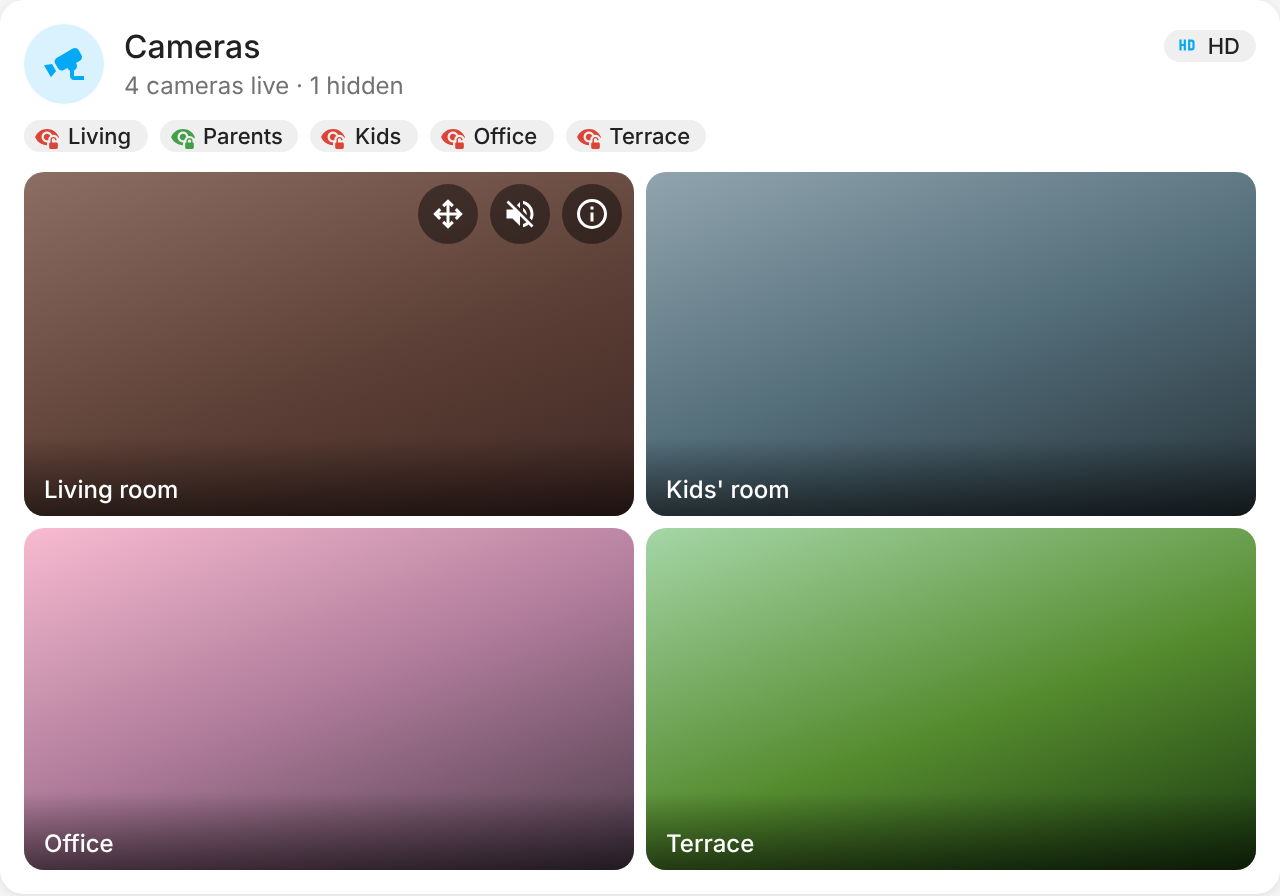
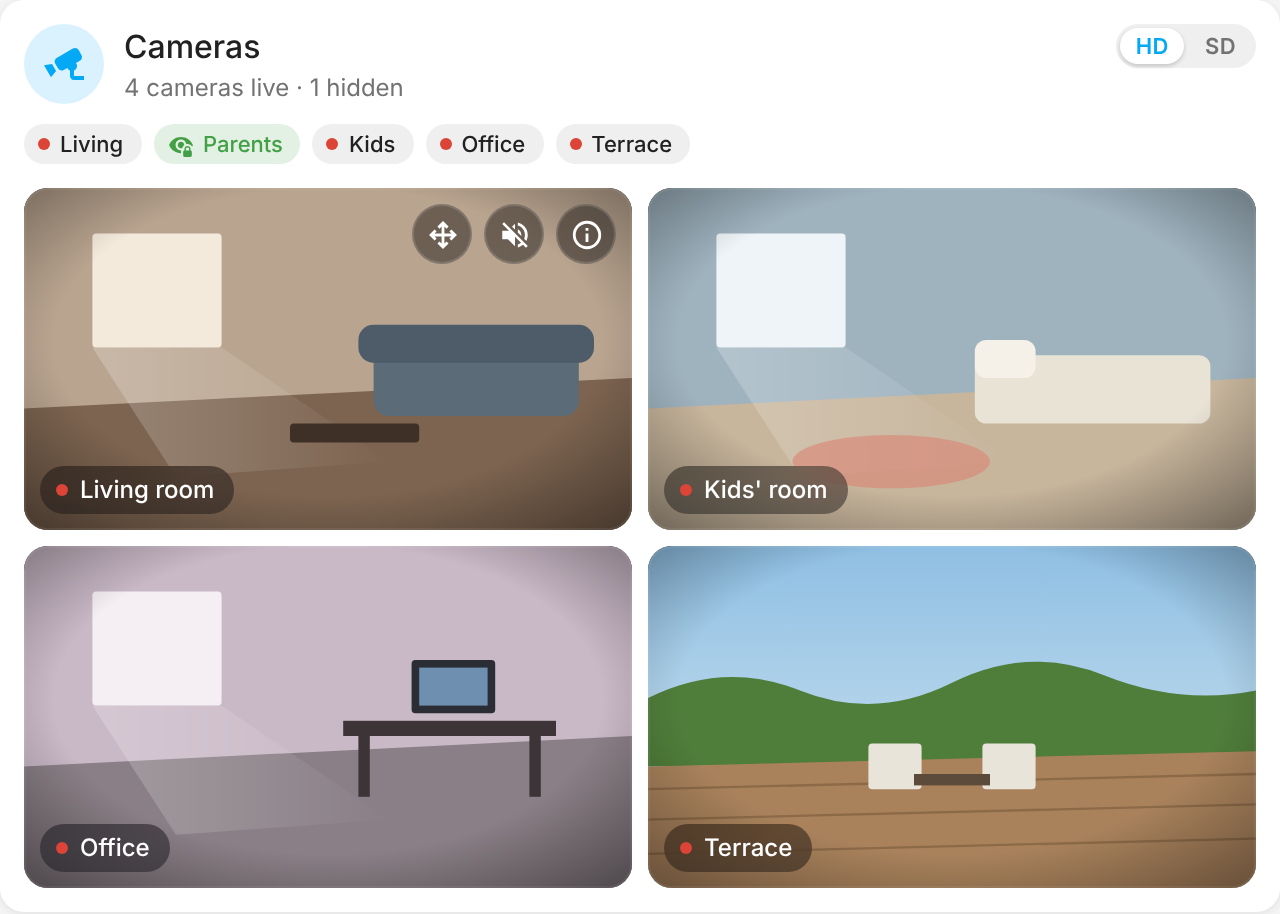
Visual pass (3.2.0)
- HD / SD as a two-way switch in the header
- Badges: red live dot while filming, green lock while hidden
- Names on the images in a glass pill with a blinking live dot; a single
  camera's pill says Live
- Glass buttons and arrows, rounder tiles with a hairline edge, softer
  unavailable placeholder, finer spinner
- Panel saying how to bring a camera back when every camera is hidden
- Reduced motion respected
- Mock rooms in the screenshots, plus single-camera and all-hidden views

Claude-Session: https://claude.ai/code/session_01BJht1x7VNww4d7EZ9aGf12

diff --git a/src/home-camera-card.js b/src/home-camera-card.js
@@ -11,6 +11,9 @@ const HcI18n = {
     all_hidden: 'Toutes les caméras sont masquées',
     one_hidden: 'Caméra désactivée',
     no_cameras: 'Aucune caméra configurée',
+    hint_all: 'Touchez une pastille pour afficher une caméra',
+    live: 'En direct',
+    hint_one: 'Activez la caméra pour la voir ici',
     hd: 'HD',
     sd: 'SD',
     quality_hint: 'Basculer entre HD et SD',
@@ -62,6 +65,9 @@ const HcI18n = {
     all_hidden: 'All cameras are hidden',
     one_hidden: 'Camera disabled',
     no_cameras: 'No camera configured',
+    hint_all: 'Tap a badge to show a camera',
+    live: 'Live',
+    hint_one: 'Enable the camera to see it here',
     hd: 'HD',
     sd: 'SD',
     quality_hint: 'Switch between HD and SD',
@@ -411,10 +417,12 @@ class HomeCameraCard extends HTMLElement {
     }
   }
 
+  // A badge: an icon, or the red live dot when icon is null.
   _chip(cls, attrs, icon, label, title) {
+    const mark = icon ? `<ha-icon icon="${icon}"></ha-icon>` : '<span class="dot"></span>';
     return (
       `<span class="chip ${cls}" ${attrs} role="button" tabindex="0" title="${hcEsc(title)}">` +
-      `<ha-icon icon="${icon}"></ha-icon><span>${hcEsc(label)}</span></span>`
+      `${mark}<span>${hcEsc(label)}</span></span>`
     );
   }
 
@@ -435,13 +443,10 @@ class HomeCameraCard extends HTMLElement {
       }
     }
 
-    const quality = this._chip(
-      hd ? 'hd' : 'sd',
-      'data-quality="1"',
-      hd ? 'mdi:high-definition' : 'mdi:standard-definition',
-      this._t(hd ? 'hd' : 'sd'),
-      this._t('quality_hint'),
-    );
+    // HD / SD as a two-way switch: both options shown, the current one raised.
+    const opt = (q, on) =>
+      `<span class="opt${on ? ' on' : ''}" data-quality="${q}" role="radio" aria-checked="${on}" tabindex="0">${this._t(q)}</span>`;
+    const quality = `<span class="seg" role="radiogroup" title="${hcEsc(this._t('quality_hint'))}">${opt('hd', hd)}${opt('sd', !hd)}</span>`;
 
     // Lock icon by state; a spinning icon while the switch toggled from the card has not answered yet.
     const lock = (cam) => {
@@ -454,6 +459,8 @@ class HomeCameraCard extends HTMLElement {
         title: this._t(off ? 'privacy_on' : 'privacy_off', { c: cam.name }),
       };
     };
+    // Badges: a live camera shows the red dot, a hidden one its lock.
+    const badgeIcon = (l) => (l.cls === 'exposed' ? null : l.icon);
 
     let badges = '';
     if (c.show_badges) {
@@ -463,14 +470,15 @@ class HomeCameraCard extends HTMLElement {
           const l = lock(cam);
           const target = cam.privacy || cam.power;
           const label = single ? this._t(this._hidden(cam) ? 'enable' : 'disable') : cam.short;
-          return this._chip(l.cls, `data-toggle="${hcEsc(target)}"`, l.icon, label, l.title);
+          return this._chip(l.cls, `data-toggle="${hcEsc(target)}"`, badgeIcon(l), label, l.title);
         })
         .join('');
     }
 
     // A single camera with a toggle: the toggle sits on the right of the title, the quality under it
     // (only while the camera films: once it is hidden, the line says so instead).
-    let right = quality;
+    // No camera on screen: nothing to choose a quality for.
+    let right = visible.length ? quality : '';
     let side = '';
     let sub = summary ? `<div class="summary">${hcEsc(summary)}</div>` : '';
     if (single && badges) {
@@ -502,9 +510,17 @@ class HomeCameraCard extends HTMLElement {
     if (!this._tiles) this._tiles = new Map();
     if (!visible.length) {
       this._tiles.clear();
-      view.innerHTML = this._config.cameras?.length
-        ? ''
-        : `<div class="empty"><ha-icon icon="mdi:cctv-off"></ha-icon>${hcEsc(this._t('no_cameras'))}</div>`;
+      const n = this._config.cameras?.length || 0;
+      // Every camera hidden: what brings one back, where the grid would be.
+      if (n && this._config.show_badges) {
+        view.innerHTML =
+          `<div class="asleep"><ha-icon icon="mdi:eye-lock"></ha-icon>` +
+          `<span>${hcEsc(this._t(n === 1 ? 'hint_one' : 'hint_all'))}</span></div>`;
+      } else {
+        view.innerHTML = n
+          ? ''
+          : `<div class="empty"><ha-icon icon="mdi:cctv-off"></ha-icon>${hcEsc(this._t('no_cameras'))}</div>`;
+      }
       return;
     }
     hcLoadStream(visible[0].camera).catch(() => {});
@@ -542,7 +558,8 @@ class HomeCameraCard extends HTMLElement {
     tile.setAttribute('role', 'group');
     tile.innerHTML =
       '<div class="na"><ha-icon icon="mdi:cctv-off"></ha-icon><span></span></div><div class="spin"></div>' +
-      '<div class="label"></div><span class="open" data-action="open" role="button" tabindex="0"></span>' +
+      '<div class="label"><span class="dot"></span><span class="text"></span></div>' +
+      '<span class="open" data-action="open" role="button" tabindex="0"></span>' +
       '<div class="tools"></div><div class="pad"></div>';
     const stream = document.createElement('ha-camera-stream');
     stream.muted = true;
@@ -569,7 +586,9 @@ class HomeCameraCard extends HTMLElement {
     tile.dataset.cam = cam.key;
     tile.setAttribute('aria-label', cam.name);
     tile.querySelector('.open').title = cam.name;
-    tile.querySelector('.label').textContent = cam.name;
+    // A single camera already has its name as the card title: its image just says it is live.
+    const single = (this._config.cameras?.length || 0) === 1;
+    tile.querySelector('.label .text').textContent = single ? this._t('live') : cam.name;
     tile.querySelector('.na span').textContent = this._t('unavailable');
     if (!this._fullscreen(tile)) tile._stream.aspectRatio = hcRatio(this._config.aspect_ratio);
     this._renderTools(tile);
@@ -763,8 +782,10 @@ class HomeCameraCard extends HTMLElement {
   _styles() {
     return (
       '<style>' +
-      ':host { display: block; --hc-on: var(--success-color, #43a047); --hc-off: var(--error-color, #db4437); }' +
-      'ha-card { box-sizing: border-box; padding: 12px; display: flex; flex-direction: column; gap: 10px; overflow: hidden; }' +
+      // --hc-glass: the smoked glass of everything laid over the images (labels, buttons, arrows).
+      ':host { display: block; --hc-on: var(--success-color, #43a047); --hc-off: var(--error-color, #db4437);' +
+      ' --hc-live: var(--error-color, #db4437); --hc-glass: rgba(14, 16, 20, 0.46); --hc-glass-line: rgba(255, 255, 255, 0.14); }' +
+      'ha-card { box-sizing: border-box; padding: 12px; display: flex; flex-direction: column; gap: 12px; overflow: hidden; }' +
       '.header { display: flex; align-items: center; gap: 10px; }' +
       '.hicon { width: 40px; height: 40px; border-radius: 50%; flex-shrink: 0; display: flex; align-items: center; justify-content: center;' +
       ' --hc-c: var(--primary-color, #03a9f4); background: color-mix(in srgb, var(--hc-c) 15%, transparent); color: var(--hc-c); }' +
@@ -776,52 +797,74 @@ class HomeCameraCard extends HTMLElement {
       '.summary { font-size: 12px; line-height: 1.35; margin-top: 2px; color: var(--secondary-text-color); }' +
       '.chips { display: flex; flex-wrap: wrap; justify-content: flex-end; gap: 6px; }' +
       '.chips.badges, .chips.sub { justify-content: flex-start; }' +
-      '.chips.badges { margin-top: 8px; }' +
-      '.chips.sub { margin-top: 3px; }' +
+      '.chips.badges { margin-top: 10px; }' +
+      '.chips.sub { margin-top: 4px; }' +
+      // HD / SD switch: a track with the current option raised on it.
+      '.seg { display: inline-flex; padding: 2px; gap: 2px; border-radius: 12px; background: var(--secondary-background-color, rgba(128,128,128,0.12)); }' +
+      '.opt { font-size: 11px; font-weight: 600; letter-spacing: 0.02em; line-height: 18px; padding: 0 8px; border-radius: 10px; cursor: pointer;' +
+      ' color: var(--secondary-text-color); user-select: none; transition: background 0.15s, color 0.15s; }' +
+      '.opt.on { background: var(--card-background-color, #fff); color: var(--primary-color, #03a9f4); box-shadow: 0 1px 2px rgba(0,0,0,0.18); cursor: default; }' +
+      '.opt:focus-visible { outline: 2px solid var(--primary-color, #03a9f4); outline-offset: 1px; }' +
       '.toggle { width: 40px; height: 40px; border-radius: 50%; flex-shrink: 0; display: flex; align-items: center; justify-content: center; cursor: pointer;' +
       ' --hc-c: var(--hc-off); background: color-mix(in srgb, var(--hc-c) 15%, transparent); color: var(--hc-c); }' +
       '.toggle.private { --hc-c: var(--hc-on); }' +
       '.toggle.pending { --hc-c: var(--secondary-text-color); cursor: progress; }' +
       '.toggle ha-icon { --mdc-icon-size: 22px; }' +
-      '.chip { display: inline-flex; align-items: center; gap: 4px; font-size: 11px; font-weight: 500; padding: 1px 8px 1px 5px; border-radius: 12px; cursor: pointer;' +
-      ' background: var(--secondary-background-color, rgba(128,128,128,0.12)); color: var(--primary-text-color); white-space: nowrap; user-select: none; }' +
-      '.chip ha-icon { --mdc-icon-size: 13px; color: var(--secondary-text-color); }' +
-      '.chip.hd ha-icon { color: var(--primary-color, #03a9f4); }' +
-      '.chip.private ha-icon { color: var(--hc-on); }' +
-      '.chip.exposed ha-icon { color: var(--hc-off); }' +
-      '.chip.pending { cursor: progress; opacity: 0.75; }' +
+      // Badges: neutral with a red live dot while the camera films, green-tinted with a lock while hidden.
+      '.chip { display: inline-flex; align-items: center; gap: 5px; font-size: 11px; font-weight: 500; line-height: 18px; padding: 1px 9px 1px 7px; border-radius: 12px;' +
+      ' cursor: pointer; white-space: nowrap; user-select: none; background: var(--secondary-background-color, rgba(128,128,128,0.12)); color: var(--primary-text-color); }' +
+      '.chip ha-icon { --mdc-icon-size: 13px; }' +
+      '.chip.private { background: color-mix(in srgb, var(--hc-on) 15%, transparent); color: var(--hc-on); }' +
+      '.chip.pending { cursor: progress; color: var(--secondary-text-color); }' +
+      '.chip:focus-visible, .toggle:focus-visible { outline: 2px solid var(--primary-color, #03a9f4); outline-offset: 1px; }' +
+      '.dot { width: 6px; height: 6px; border-radius: 50%; flex-shrink: 0; background: var(--hc-live); }' +
       '.pending ha-icon { animation: hc-spin 0.9s linear infinite; }' +
       '@keyframes hc-spin { to { transform: rotate(360deg); } }' +
+      // The one moving thing: the live dot on the images breathes, like a recording light.
+      '@keyframes hc-live { 50% { opacity: 0.35; } }' +
       '.view:empty { display: none; }' +
-      '.grid { display: grid; gap: 6px; }' +
-      '.tile { position: relative; aspect-ratio: var(--hc-ratio, 1.7778); border-radius: 10px; overflow: hidden; background: #000; }' +
-      '.open { position: absolute; inset: 0; cursor: pointer; outline: none; border-radius: inherit; -webkit-tap-highlight-color: transparent; }' +
+      '.grid { display: grid; gap: 8px; }' +
+      '.tile { position: relative; aspect-ratio: var(--hc-ratio, 1.7778); border-radius: 12px; overflow: hidden; background: #0d0f12; }' +
+      // A hairline ring over the image, so dark scenes keep their edge on a dark card.
+      '.tile::after { content: ""; position: absolute; inset: 0; border-radius: inherit; box-shadow: inset 0 0 0 1px rgba(255,255,255,0.07); pointer-events: none; }' +
+      ':is(.tile:fullscreen, .tile.pseudo)::after { display: none; }' +
+      '.open { position: absolute; inset: 0; outline: none; border-radius: inherit; -webkit-tap-highlight-color: transparent; }' +
       '.open:focus-visible { box-shadow: inset 0 0 0 2px var(--primary-color, #03a9f4); }' +
       // A tap on the image puts it fullscreen, a second tap brings it back.
       '.open { cursor: zoom-in; }' +
       ':is(.tile:fullscreen, .tile.pseudo) .open { cursor: zoom-out; }' +
       '.tile ha-camera-stream { display: block; width: 100%; height: 100%; --video-max-height: 100%; }' +
-      ':is(.tile:fullscreen, .tile.pseudo) { display: flex; align-items: center; justify-content: center; border-radius: 0; }' +
+      ':is(.tile:fullscreen, .tile.pseudo) { display: flex; align-items: center; justify-content: center; border-radius: 0; background: #000; }' +
       '.tile.pseudo { position: fixed; inset: 0; z-index: 10000; aspect-ratio: auto; }' +
       ':is(.tile:fullscreen, .tile.pseudo) ha-camera-stream { height: auto; --video-max-height: 100vh; }' +
       '.tile.off ha-camera-stream { display: none; }' +
-      '.na { position: absolute; inset: 0; display: none; flex-direction: column; align-items: center; justify-content: center; gap: 6px; font-size: 12px;' +
-      ' color: rgba(255,255,255,0.7); background: #1a1a1a; }' +
+      '.na { position: absolute; inset: 0; display: none; flex-direction: column; align-items: center; justify-content: center; gap: 8px; font-size: 12px;' +
+      ' color: rgba(255,255,255,0.62); background: radial-gradient(circle at 50% 42%, #2a2e35, #121418 72%); }' +
+      '.na ha-icon { --mdc-icon-size: 20px; width: 40px; height: 40px; display: flex; align-items: center; justify-content: center; border-radius: 50%;' +
+      ' background: rgba(255,255,255,0.07); }' +
       '.tile.off .na { display: flex; }' +
-      '.spin { position: absolute; inset: 0; margin: auto; width: 26px; height: 26px; box-sizing: border-box; border-radius: 50%; display: none;' +
-      ' border: 3px solid rgba(255,255,255,0.25); border-top-color: #fff; animation: hc-spin 0.9s linear infinite; pointer-events: none; }' +
+      '.tile.off .label .dot { display: none; }' +
+      '.spin { position: absolute; inset: 0; margin: auto; width: 24px; height: 24px; box-sizing: border-box; border-radius: 50%; display: none;' +
+      ' border: 2px solid rgba(255,255,255,0.18); border-top-color: rgba(255,255,255,0.9); animation: hc-spin 0.8s linear infinite; pointer-events: none; }' +
       '.tile.loading:not(.off) .spin { display: block; }' +
-      '.label { position: absolute; left: 0; right: 0; bottom: 0; padding: 18px 10px 6px; font-size: 12px; font-weight: 500; color: #fff;' +
-      ' background: linear-gradient(transparent, rgba(0,0,0,0.55)); white-space: nowrap; overflow: hidden; text-overflow: ellipsis; pointer-events: none; }' +
-      ':is(.tile:fullscreen, .tile.pseudo) .label { font-size: 16px; padding: 32px 16px max(12px, env(safe-area-inset-bottom)); }' +
-      '.tools { position: absolute; top: 6px; right: 6px; display: flex; gap: 6px; transition: opacity 0.15s; }' +
-      ':is(.tile:fullscreen, .tile.pseudo) .tools { top: max(12px, env(safe-area-inset-top)); right: max(12px, env(safe-area-inset-right)); }' +
-      '.btn { width: 30px; height: 30px; border-radius: 50%; display: flex; align-items: center; justify-content: center; cursor: pointer;' +
-      ' color: #fff; background: rgba(0,0,0,0.45); -webkit-tap-highlight-color: transparent; user-select: none; }' +
-      '.btn:hover { background: rgba(0,0,0,0.65); }' +
-      '.btn:focus-visible { outline: 2px solid var(--primary-color, #03a9f4); }' +
-      '.btn ha-icon { --mdc-icon-size: 18px; }' +
-      '.tile.ptz-open .btn.ptz, .btn.sound.on, .move:active { background: var(--primary-color, #03a9f4); }' +
+      // Name on the image: a glass pill with the live dot, not a dark gradient over the bottom of the picture.
+      '.label { position: absolute; left: 8px; bottom: 8px; max-width: calc(100% - 16px); box-sizing: border-box; display: inline-flex; align-items: center; gap: 6px;' +
+      ' padding: 3px 10px 3px 8px; border-radius: 999px; font-size: 12px; font-weight: 500; line-height: 18px; color: #fff; pointer-events: none;' +
+      ' background: var(--hc-glass); -webkit-backdrop-filter: blur(10px) saturate(1.3); backdrop-filter: blur(10px) saturate(1.3); }' +
+      '.label .dot { animation: hc-live 2.4s ease-in-out infinite; }' +
+      '.label .text { white-space: nowrap; overflow: hidden; text-overflow: ellipsis; }' +
+      ':is(.tile:fullscreen, .tile.pseudo) .label { font-size: 15px; padding: 5px 14px 5px 12px; left: max(16px, env(safe-area-inset-left));' +
+      ' bottom: max(16px, env(safe-area-inset-bottom)); }' +
+      '.tools { position: absolute; top: 8px; right: 8px; display: flex; gap: 6px; transition: opacity 0.15s; }' +
+      ':is(.tile:fullscreen, .tile.pseudo) .tools { top: max(16px, env(safe-area-inset-top)); right: max(16px, env(safe-area-inset-right)); }' +
+      '.btn { width: 30px; height: 30px; box-sizing: border-box; border-radius: 50%; display: flex; align-items: center; justify-content: center; cursor: pointer;' +
+      ' color: #fff; background: var(--hc-glass); border: 1px solid var(--hc-glass-line); -webkit-backdrop-filter: blur(10px) saturate(1.3); backdrop-filter: blur(10px) saturate(1.3);' +
+      ' -webkit-tap-highlight-color: transparent; user-select: none; transition: background 0.15s, transform 0.1s; }' +
+      '.btn:hover { background: rgba(14, 16, 20, 0.66); }' +
+      '.btn:active { transform: scale(0.94); }' +
+      '.btn:focus-visible { outline: 2px solid var(--primary-color, #03a9f4); outline-offset: 1px; }' +
+      '.btn ha-icon { --mdc-icon-size: 17px; }' +
+      '.tile.ptz-open .btn.ptz, .btn.sound.on, .move:active { background: var(--primary-color, #03a9f4); border-color: transparent; }' +
       // Narrow tiles: the up arrow would run into the other buttons.
       '.tile.ptz-open .tools .btn:not(.ptz) { display: none; }' +
       '.pad { display: none; }' +
@@ -839,11 +882,16 @@ class HomeCameraCard extends HTMLElement {
       ':is(.tile:fullscreen, .tile.pseudo) .move.left { left: max(16px, env(safe-area-inset-left)); }' +
       ':is(.tile:fullscreen, .tile.pseudo) .move.right { right: max(16px, env(safe-area-inset-right)); }' +
       ':is(.tile:fullscreen, .tile.pseudo) .move.up { top: max(16px, env(safe-area-inset-top)); }' +
-      ':is(.tile:fullscreen, .tile.pseudo) .move.down { bottom: max(48px, env(safe-area-inset-bottom)); }' +
+      ':is(.tile:fullscreen, .tile.pseudo) .move.down { bottom: max(56px, env(safe-area-inset-bottom)); }' +
       // Mouse: the buttons show on hover, so the image stays clear. Touch: always shown, and larger.
       '@media (hover: hover) and (pointer: fine) {' +
       ' .tile:not(:hover):not(:focus-within):not(.ptz-open) .tools { opacity: 0; } }' +
       '@media (pointer: coarse) { .btn { width: 36px; height: 36px; } .btn ha-icon { --mdc-icon-size: 20px; } .move { --s: 46px; } }' +
+      '@media (prefers-reduced-motion: reduce) { .label .dot, .spin, .pending ha-icon { animation: none; } }' +
+      // Every camera hidden: a quiet panel where the grid would be, saying how to bring one back.
+      '.asleep { display: flex; align-items: center; justify-content: center; gap: 8px; min-height: 64px; padding: 12px; box-sizing: border-box;' +
+      ' border-radius: 12px; border: 1px dashed var(--divider-color, rgba(128,128,128,0.3)); font-size: 12px; color: var(--secondary-text-color); text-align: center; }' +
+      '.asleep ha-icon { --mdc-icon-size: 18px; color: var(--hc-on); }' +
       '.empty { display: flex; align-items: center; gap: 10px; color: var(--secondary-text-color); }' +
       '</style>'
     );
@@ -851,8 +899,9 @@ class HomeCameraCard extends HTMLElement {
 
   _onClick(ev) {
     const path = ev.composedPath();
-    if (path.some((n) => n.dataset?.quality)) {
-      this._toggleQuality();
+    const q = path.find((n) => n.dataset?.quality)?.dataset.quality;
+    if (q) {
+      if ((q === 'hd') !== this._hd()) this._toggleQuality();
       return;
     }
     const toggle = path.find((n) => n.dataset?.toggle);

diff --git a/README.md b/README.md
@@ -15,11 +15,14 @@ List the cameras, the card finds their privacy switch, SD stream and PTZ buttons
 | Light | Dark, pan & tilt |
 |---|---|
 | ![Camera card](https://raw.githubusercontent.com/juju35/ha-home-camera-card/main/screenshots/card.png) | ![Camera card with the pan and tilt arrows, dark theme](https://raw.githubusercontent.com/juju35/ha-home-camera-card/main/screenshots/card-dark.png) |
+| **Single camera** | **Every camera hidden** |
+| ![Camera card with a single camera](https://raw.githubusercontent.com/juju35/ha-home-camera-card/main/screenshots/card-single.png) | ![Camera card with every camera hidden, dark theme](https://raw.githubusercontent.com/juju35/ha-home-camera-card/main/screenshots/card-hidden.png) |
 
 ## Features
 
-- Header with the number of cameras live and hidden, and an **HD / SD** badge
-- One badge per camera: green lock when the camera is hidden, red when it films; tap to toggle its privacy switch (or its smart plug)
+- Header with the number of cameras live and hidden, and an **HD / SD** switch
+- One badge per camera: a red live dot while it films, a green lock while it is hidden; tap to toggle its privacy switch (or its smart plug)
+- Each image carries its name with a live dot; when every camera is hidden, a panel says how to bring one back
 - A single camera: its name is the title, a round *Disable* / *Enable* icon button sits on the right and the HD / SD badge under the title
 - Hidden cameras are removed from the grid: a camera is hidden when its **privacy switch is on** or its **power switch is off**
 - **HD / SD** switch: from an `input_select` shared by every dashboard, or from the card itself (remembered by the browser)
@@ -145,6 +148,8 @@ cameras:
 | Light | Dark, pan & tilt |
 |---|---|
 | ![card](screenshots/card.png) | ![card dark](screenshots/card-dark.png) |
+| **Single camera** | **Every camera hidden** |
+| ![card single](screenshots/card-single.png) | ![card hidden](screenshots/card-hidden.png) |
 
 ## How it works
 

diff --git a/CHANGELOG.md b/CHANGELOG.md
@@ -1,5 +1,19 @@
 # Changelog
 
+## 3.2.0
+
+Visual pass: the same card, nicer to look at.
+
+### Changes
+- **HD / SD switch**: both options shown in the header, the current one raised; a tap picks the one you tap.
+- **Badges**: a red live dot while the camera films, green with a lock while it is hidden (was: an eye icon on every badge).
+- **Images**: each name sits in a glass pill with a softly blinking live dot, instead of a dark band over the bottom of the picture; a single camera's pill just says *Live*, its name being the title. Rounder corners, a hairline edge so dark scenes stay framed on a dark card, wider gaps.
+- **Buttons and arrows** on the images are smoked glass with a thin outline, and give under the finger.
+- **Unavailable** cameras show a softer placeholder; the loading spinner is finer.
+- **Every camera hidden**: a panel where the grid would be says how to bring one back; the HD / SD switch hides.
+- Blinking and spinning stop when the system asks for reduced motion.
+- Screenshots: mock rooms instead of flat colours, plus a single-camera and an every-camera-hidden view.
+
 ## 3.1.0
 
 Ergonomics pass: quicker to read, quicker to act on.
